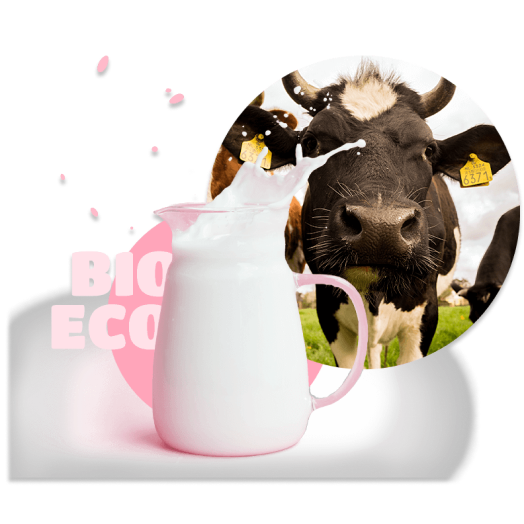
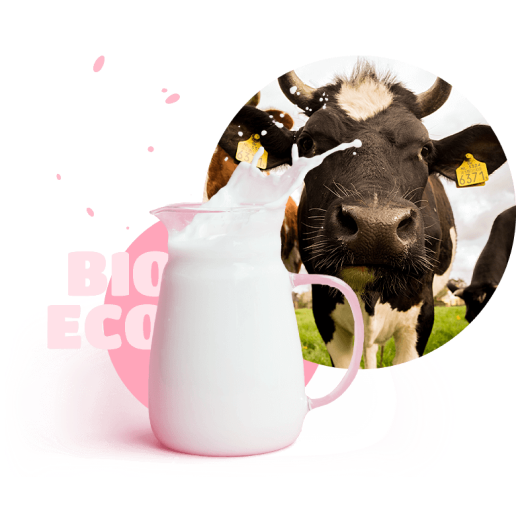
обновлен фон и изображение секции about

diff --git a/src/partials/about.html b/src/partials/about.html
@@ -1,25 +1,28 @@
 <section class="box-about" id="about">
-  <div class="container">
-    <p class="box-about__suptitle">TRADITION AND LOVE</p>
-    <h2 class="box-about__title">HOW IT'S MADE?</h2>
-    <div class="box-about__content">
-      <div class="box-about__bg-bossy"></div>
-      <div class="box-about__information">
-        <p class="box-about__main-text">
-          Fusce ut velit laoreet, tempus arcu eu, molestie tortor. Nam vel justo cursus, faucibus
-          lorem eget, egestas eros. Maecenas eleifend erat at justo fringilla.
-        </p>
-        <p class="box-about__details-text">
-          Curabitur lacinia enim at ex blandit, vel pellentesque odio elementum. Mauris rhoncus orci
-          in imperdiet placerat. Vestibulum euismod nisl suscipit ligula volutpat, a feugiat urna
-          maximus. Cras massa nibh, tincidunt. <br /><br />Aliquam erat volutpat. Aenean accumsan.
-        </p>
-        <button type="button" class="button box-about__button">
-          Read more
-          <svg class="box-about__btn-svg" width="10px" height="12px">
-            <use href="./images/icon/arrow-button.svg#icon-arrow-button"></use>
-          </svg>
-        </button>
+  <div class="box-about__overlay">
+    <div class="container">
+      <p class="box-about__suptitle">TRADITION AND LOVE</p>
+      <h2 class="box-about__title">HOW IT'S MADE?</h2>
+      <div class="box-about__content">
+        <div class="box-about__bg-bossy"></div>
+        <div class="box-about__information">
+          <p class="box-about__main-text">
+            Fusce ut velit laoreet, tempus arcu eu, molestie tortor. Nam vel justo cursus, faucibus
+            lorem eget, egestas eros. Maecenas eleifend erat at justo fringilla.
+          </p>
+          <p class="box-about__details-text">
+            Curabitur lacinia enim at ex blandit, vel pellentesque odio elementum. Mauris rhoncus
+            orci in imperdiet placerat. Vestibulum euismod nisl suscipit ligula volutpat, a feugiat
+            urna maximus. Cras massa nibh, tincidunt. <br /><br />Aliquam erat volutpat. Aenean
+            accumsan.
+          </p>
+          <button type="button" class="button box-about__button">
+            Read more
+            <svg class="box-about__btn-svg" width="10px" height="12px">
+              <use href="./images/icon/arrow-button.svg#icon-arrow-button"></use>
+            </svg>
+          </button>
+        </div>
       </div>
     </div>
   </div>

diff --git a/src/sass/layout/_about.scss b/src/sass/layout/_about.scss
@@ -1,9 +1,11 @@
 @media screen and (max-width: 767px) {
-  .box-about .container {
+  .box-about__overlay {
     background-image: url('../images/mobile/bg-milk.png');
+    margin-left: auto;
+    margin-right: auto;
     background-repeat: no-repeat;
+    background-position: center bottom 10%;
     background-size: contain;
-    background-position: left bottom 67px;
   }
 
   .box-about {
@@ -40,13 +42,6 @@
     text-transform: uppercase;
     color: var(--accentColor);
     margin-bottom: 26px;
-  }
-
-  .box-about__bg-bossy {
-    margin-bottom: 46px;
-    background-image: url('../images/mobile/bg-bossy.png');
-    width: 280px;
-    height: 280px;
   }
 
   .box-about__main-text {
@@ -165,11 +160,11 @@
     background: #fff5f6;
   }
 
-  .box-about .container {
+  .box-about__overlay {
     background-image: url('../images/mobile/bg-milk.png');
     background-repeat: no-repeat;
     background-size: contain;
-    background-position: left top 217px;
+    background-position: center bottom -41%;
   }
 
   .box-about__suptitle {
